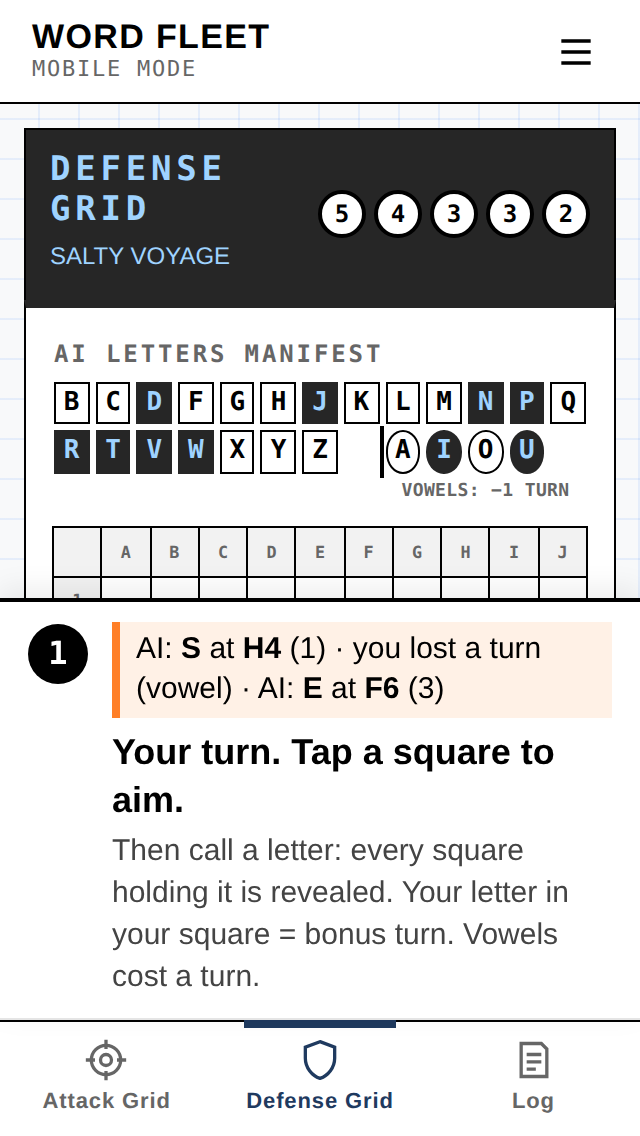
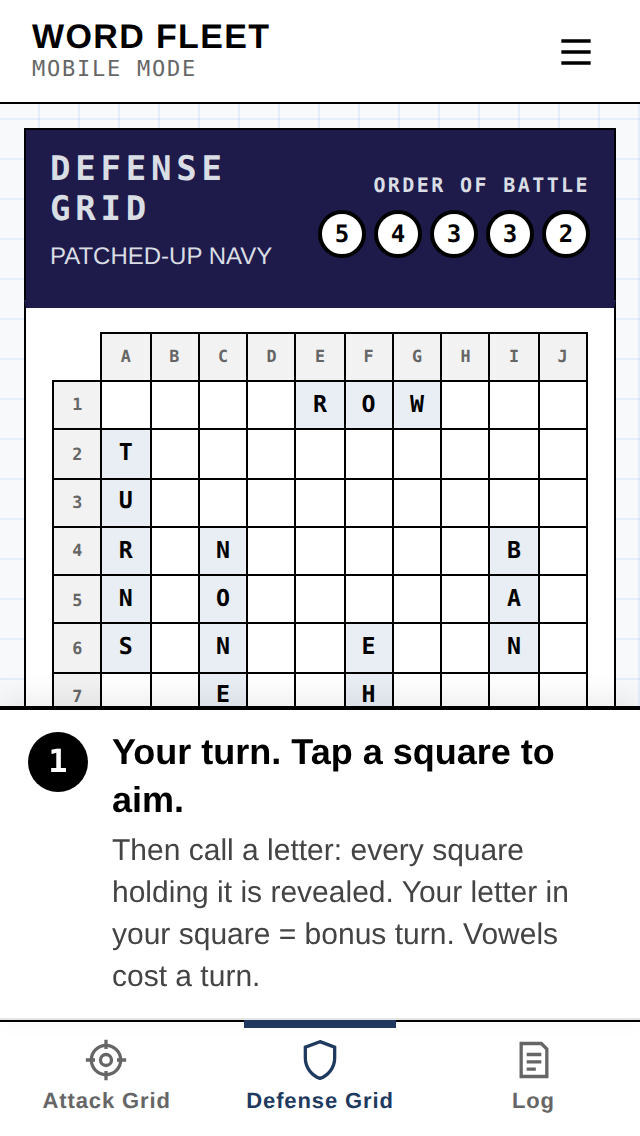
Saved fleets with their scores; Order of Battle label; no Hunting the Enemy
Saved Fleets (menu, and Use a Saved Fleet on 001): every finished battle saves its
fleet and score, Save This Fleet saves it any time; each fleet shows best, battles,
wins and last score, with Use (new battle at 001 with that fleet) and Delete.
A renamed fleet is a new fleet.

The Attack Grid banner drops "Hunting the Enemy"; the ship circles on both grid
banners are labelled ORDER OF BATTLE. v150.

Claude-Session: https://claude.ai/code/session_013sUGAAEC45a1EJCrQWVj9Q

Changed region(s): [[0.0, 0.0924, 1.0, 0.7086]]

diff --git a/mobile/app.js b/mobile/app.js
@@ -314,6 +314,67 @@
   function record() {
     try { return JSON.parse(localStorage.getItem(RECORD)) || { won: 0, lost: 0 }; } catch (e) { return { won: 0, lost: 0 }; }
   }
+  // Saved fleets: name, colors, word-ships and their locations, kept on this device for later battles,
+  // with every finished battle's score. A fleet is matched by its id (S.me.id), which carries over
+  // from battle to battle; editing its words, colors or locations updates the saved fleet, while a
+  // new name makes it a new fleet.
+  var FLEETS = 'wordfleet-fleets';
+  function loadFleets() {
+    try { return JSON.parse(localStorage.getItem(FLEETS)) || []; } catch (e) { return []; }
+  }
+  function storeFleets(list) {
+    try { localStorage.setItem(FLEETS, JSON.stringify(list)); } catch (e) { /* private mode */ }
+  }
+  function newFleetId() { return Date.now().toString(36) + Math.random().toString(36).slice(2, 6); }
+  // Saves (or updates) the current fleet; result {score, won, level} adds a finished battle's score.
+  function recordFleet(result) {
+    if (!S || !S.me || !S.me.words || S.me.words.length !== SPECS.length) return null;
+    var list = loadFleets();
+    // A renamed fleet is a new fleet: keep the old one (and its scores) as it was.
+    var mine = list.filter(function (x) { return x.id === S.me.id; })[0];
+    if (!S.me.id || (mine && mine.name !== S.me.name)) S.me.id = newFleetId();
+    var f = list.filter(function (x) { return x.id === S.me.id; })[0];
+    if (!f) { f = { id: S.me.id, scores: [] }; list.unshift(f); }
+    f.name = S.me.name; f.colors = S.colors; f.lang = S.lang; f.words = S.me.words.slice();
+    f.ships = S.me.ships && S.me.ships.every(function (sh) { return sh.r != null; })
+      ? S.me.ships.map(function (sh) { return { word: sh.word, r: sh.r, c: sh.c, dir: sh.dir }; }) : null;
+    f.saved = Date.now();
+    if (result) { f.scores.unshift({ score: result.score, won: result.won, level: result.level, at: Date.now() }); f.scores = f.scores.slice(0, 50); }
+    storeFleets(list);
+    return f;
+  }
+  function fleetStats(f) {
+    var sc = f.scores || [];
+    if (!sc.length) return 'No battles yet';
+    var best = Math.max.apply(null, sc.map(function (x) { return x.score || 0; }));
+    var won = sc.filter(function (x) { return x.won; }).length;
+    return 'Best ' + best + ' \u00b7 ' + sc.length + (sc.length === 1 ? ' battle' : ' battles') + ' \u00b7 ' + won + ' won \u00b7 last ' + (sc[0].score || 0);
+  }
+  // MOBILE-FLEETS: the saved fleets, each with its scores; USE starts a new battle (at 001) with it.
+  function openFleets() {
+    var list = loadFleets();
+    openSheet('<h2>Saved Fleets</h2>' + (list.length ? '<div class="fleet-list">' + list.map(function (f) {
+      return '<div class="fleet-row"><i class="fleet-flag">' + flagSvg(schemeOf(f.colors), fleetInitials(f.name) || 'WF') + '</i>' +
+        '<div class="fleet-info"><b>' + esc(f.name) + '</b><span>' + f.words.join(' \u00b7 ') + '</span><span class="fleet-stats">' + fleetStats(f) + '</span></div>' +
+        '<div class="fleet-acts"><button class="btn btn--sm btn--primary" type="button" data-act="useFleet" data-id="' + f.id + '">Use</button>' +
+        '<button class="btn btn--sm btn--ghost" type="button" data-act="delFleet" data-id="' + f.id + '">Delete</button></div></div>';
+    }).join('') + '</div>' : '<p class="hint">No saved fleets yet. Every battle you finish saves its fleet and score here, or use SAVE THIS FLEET in the \u2630 menu.</p>') +
+      '<button class="btn btn--wide" type="button" data-act="close">Close</button>', true, 'MOBILE-FLEETS');
+  }
+  function useFleet(id) {
+    var f = loadFleets().filter(function (x) { return x.id === id; })[0];
+    if (!f) return false;
+    if (S && S.phase !== 'over' && S.phase !== 'setup' && !confirm('Abandon the current battle?')) return false;
+    if (ui.aiTimer) { clearTimeout(ui.aiTimer); ui.aiTimer = null; }
+    newGame();
+    S.me = { id: f.id, name: f.name, words: f.words.slice(), ships: f.ships ? f.ships.map(function (sh) { return { word: sh.word, r: sh.r, c: sh.c, dir: sh.dir }; }) : null };
+    S.colors = f.colors || S.colors;
+    if (f.lang) S.lang = f.lang;
+    save();
+    show('setup');
+    return true;
+  }
+
   function bumpRecord(won) {
     var r = record();
     if (won) r.won++; else r.lost++;
@@ -332,9 +393,9 @@
       offensiveOk: !!(S && S.offensiveOk),
       mode: (S && S.mode) || 'auto',
       colors: (prev && prev.colors) || pick(COLOR_SCHEMES).id,   // random for the first game; the captain can change it on 001
-      me: prev ? { name: prev.me.name, words: prev.me.words.slice(),
+      me: prev ? { id: prev.me.id, name: prev.me.name, words: prev.me.words.slice(),
                    ships: prev.me.ships ? prev.me.ships.map(function (sh) { return { word: sh.word, r: sh.r, c: sh.c, dir: sh.dir }; }) : null }
-               : { name: randomFleetName(), words: randomWords(), ships: null },
+               : { id: newFleetId(), name: randomFleetName(), words: randomWords(), ships: null },
       foe: null,
       myShots: {}, myTallies: {},
       foeShots: {}, foeTallies: {},
@@ -392,6 +453,7 @@
   function render() {
     if (current === 'home') renderHome();
     else if (current === 'setup' || current === 'opponent' || current === 'words') renderSetup();
+    if (current === 'setup') $('btnSavedFleets').hidden = !loadFleets().length;
     else if (current === 'deploy') renderDeploy();
     else if (current === 'battle') renderBattle();
     applyFleetColors();
@@ -804,7 +866,9 @@
     var over = S.phase === 'over', fb = foeBoard();
     $('tabAttack').setAttribute('data-screen', over ? '010-MOBILE-GAME-OVER' : '005-MOBILE-ATTACK');
     $('score').textContent = (S.score || 0) + ' points';
-    $('attackSub').textContent = over ? (S.winner === 'me' ? 'Enemy Fleet Sunk' : 'Enemy Fleet Revealed') : 'Hunting the Enemy';
+    // No subtitle during battle; once it is over it says how it ended.
+    $('attackSub').textContent = over ? (S.winner === 'me' ? 'Enemy Fleet Sunk' : 'Enemy Fleet Revealed') : '';
+    $('attackSub').hidden = !over;
     $('uncalled').hidden = over;
     paint($('gridAttack'), function (r, c) {
       var k = key(r, c);
@@ -1303,6 +1367,7 @@
       log('me', S.winPts.total + ' points (' + S.winPts.why.join(', ') + '). Final score ' + S.score + '.');
     }
     bumpRecord(winner === 'me');
+    recordFleet({ score: S.score || 0, won: winner === 'me', level: S.level });
     sfx(winner === 'me' ? 'win' : 'lose', 0.2);
     ui.sel = null; ui.demand = false; ui.tab = 'Attack';
     save();
@@ -1327,6 +1392,8 @@
     var live = S && S.phase !== 'over' && S.phase !== 'setup';
     openSheet('<h2>Word Fleet</h2><div class="menu-list">' +
       '<button class="btn btn--primary btn--wide" type="button" data-act="newBattle">New Battle</button>' +
+      '<button class="btn btn--wide" type="button" data-act="fleets">Saved Fleets</button>' +
+      (S && S.me && S.me.words && S.me.words.length === SPECS.length ? '<button class="btn btn--wide" type="button" data-act="saveFleet">Save This Fleet</button>' : '') +
       '<button class="btn btn--wide" type="button" data-act="rules">Rules of Engagement</button>' +
       (ui.installEvt ? '<button class="btn btn--wide" type="button" data-act="install">Install Word Fleet</button>' : '') +
       '<a class="btn btn--wide" href="https://thegamebureau.com/wordfleet/">Home Port</a>' +
@@ -1454,6 +1521,7 @@
     show(step);
   }
   on($('btnToOpponent'), 'click', function () { setupStep('opponent'); });
+  on($('btnSavedFleets'), 'click', openFleets);
   on($('btnToWords'), 'click', function () { setupStep('words'); });
   on($('btnBackToSetup'), 'click', function () { setupStep('setup'); });
   on($('btnBackToOpponent'), 'click', function () { setupStep('opponent'); });
@@ -1594,6 +1662,13 @@
     else if (act === 'menuDemand') { closeSheet(); ui.demand = true; switchTab('Attack'); }
     else if (act === 'home') { closeSheet(); show('home'); }
     else if (act === 'newBattle') { if (newBattle()) closeSheet(); }
+    else if (act === 'fleets') openFleets();
+    else if (act === 'saveFleet') { var sf = recordFleet(null); closeSheet(); if (sf) toast(sf.name + ' saved to Saved Fleets.'); }
+    else if (act === 'useFleet') { if (useFleet(b.getAttribute('data-id'))) closeSheet(); }
+    else if (act === 'delFleet') {
+      var id = b.getAttribute('data-id'), del = loadFleets().filter(function (x) { return x.id === id; })[0];
+      if (del && confirm('Delete ' + del.name + ' and its scores?')) { storeFleets(loadFleets().filter(function (x) { return x.id !== id; })); openFleets(); }
+    }
     else if (act === 'abandon') {
       if (!confirm('Abandon this battle? It counts as a loss.')) return;
       if (S.phase === 'battle') bumpRecord(false);

diff --git a/mobile/index.html b/mobile/index.html
@@ -18,7 +18,7 @@
   <link rel="preconnect" href="https://fonts.gstatic.com" crossorigin>
   <link href="https://fonts.googleapis.com/css2?family=Courier+Prime:wght@400;700&family=Inter:wght@400;500;600;700&display=swap" rel="stylesheet">
   <!-- Bump ?v= on every release (and CACHE in sw.js) so a new page never runs old code. -->
-  <link rel="stylesheet" href="app.css?v=149">
+  <link rel="stylesheet" href="app.css?v=150">
 </head>
 <body>
 
@@ -74,6 +74,7 @@
       <p class="hint hint--label swatch-name" id="colorSchemeName"></p>
 
       <button class="btn btn--wide btn--next btn--progress" style="--progress: 25%" id="btnToOpponent" type="button" aria-label="Next: Choose Your AI Captain (step 1 of 4 done)">Next: AI Captain</button>
+      <button class="btn btn--wide" id="btnSavedFleets" type="button" hidden>Use a Saved Fleet</button>
       <a class="btn btn--ghost btn--wide" id="lnkHome" href="../">&larr; Word Fleet Home</a>
     </div>
   </section>
@@ -146,11 +147,12 @@
   <section class="screen screen--tabs" id="scrBattle" data-screen="BATTLE">
 
     <!-- ============ 005-MOBILE-ATTACK (screen name: "005-MOBILE-ATTACK") ============ -->
-    <!-- Tapping a square opens 006-MOBILE-CALL-LETTER; "Demand Surrender" turns the panel below into 009-MOBILE-SURRENDER. -->
+    <!-- Tapping a square lights up the Letters Manifest (006); "Demand Surrender" (☰ menu) opens 009-MOBILE-SURRENDER.
+         "Order of Battle": one circle per word-ship, by length; it fills in when that word-ship is sunk. -->
     <div class="tab" id="tabAttack" data-screen="005-MOBILE-ATTACK">
       <div class="gridbanner is-attack">
-        <div><b>ATTACK GRID</b><span id="attackSub">Hunting the Enemy</span><span class="banner-score" id="score">0 points</span></div>
-        <span class="bubbles" id="bubbles"></span>
+        <div><b>ATTACK GRID</b><span id="attackSub" hidden></span><span class="banner-score" id="score">0 points</span></div>
+        <div class="roll"><div class="roll-label">Order of Battle</div><span class="bubbles" id="bubbles"></span></div>
       </div>
       <div class="card card--flush card--attack">
         <!-- Letters still to call; they disappear as you call them (called ones show on the grid) -->
@@ -165,7 +167,7 @@
            "AI letters left" above the grid matches the Attack Grid's "Letters left". -->
       <div class="gridbanner is-defense">
         <div><b>DEFENSE GRID</b><span id="defFleetName">Your fleet</span></div>
-        <span class="bubbles" id="defBubbles"></span>
+        <div class="roll"><div class="roll-label">Order of Battle</div><span class="bubbles" id="defBubbles"></span></div>
       </div>
       <div class="card card--flush card--defense">
         <!-- Letters the AI Captain hasn't called yet; yours (still at risk) outlined in your colors -->
@@ -226,7 +228,7 @@
 <div class="coach coach--notice" id="notice" role="alert" aria-live="assertive" hidden></div>
 <div class="bonus-banner" id="bonusBanner" role="status" aria-live="assertive" hidden></div>
 
-<script src="audio.js?v=149"></script>
-<script src="app.js?v=149"></script>
+<script src="audio.js?v=150"></script>
+<script src="app.js?v=150"></script>
 </body>
 </html>

diff --git a/mobile/app.css b/mobile/app.css
@@ -753,3 +753,18 @@ button.uc:active { background: var(--mine, var(--navy)); color: var(--mine-ink, 
 .gridbanner .banner-score { display: block; margin-top: 4px; font-family: var(--mono); font-size: 14px; font-weight: 700; letter-spacing: 0.08em; text-transform: uppercase; }
 .coach-pts { font-weight: 700; color: var(--green-dark); }
 .coach.is-bonus .coach-pts, .coach.is-lost .coach-pts { color: var(--ink); }
+/* MOBILE-FLEETS: saved fleets with their scores */
+.fleet-list { display: grid; gap: 10px; margin-bottom: 14px; }
+.fleet-row { display: flex; align-items: center; gap: 10px; border: 1px solid var(--ink); padding: 8px 10px; }
+.fleet-flag { flex-shrink: 0; width: 34px; display: block; }
+.fleet-flag svg { width: 100%; height: auto; display: block; }
+.fleet-info { flex: 1; min-width: 0; display: grid; gap: 2px; }
+.fleet-info b { font-family: var(--mono); letter-spacing: 0.06em; overflow: hidden; text-overflow: ellipsis; white-space: nowrap; }
+.fleet-info span { font-family: var(--mono); font-size: 12px; color: var(--muted); overflow: hidden; text-overflow: ellipsis; white-space: nowrap; }
+.fleet-info .fleet-stats { color: var(--ink); font-weight: 700; }
+.fleet-acts { display: grid; gap: 6px; flex-shrink: 0; }
+.fleet-acts .btn { min-height: 34px; padding: 4px 10px; font-size: 13px; }
+/* "Order of Battle": the ship circles in a grid banner, with their label */
+.roll { display: grid; justify-items: end; gap: 4px; flex-shrink: 0; }
+.roll-label { font-family: var(--mono); font-size: 10px; font-weight: 700; letter-spacing: 0.12em; text-transform: uppercase; white-space: nowrap; }
+.fleet-info b, .fleet-info span { white-space: normal; overflow: visible; }

diff --git a/mobile/sw.js b/mobile/sw.js
@@ -1,11 +1,11 @@
 /* Word Fleet service worker: the whole game works offline once loaded. */
-var CACHE = 'wordfleet-v149';
+var CACHE = 'wordfleet-v150';
 var SHELL = [
   './',
   'index.html',
-  'app.css?v=149',
-  'app.js?v=149',
-  'audio.js?v=149',
+  'app.css?v=150',
+  'app.js?v=150',
+  'audio.js?v=150',
   'manifest.webmanifest',
   'icons/icon-180.png',
   'icons/icon-192.png',

diff --git a/mobile/screens/README.md b/mobile/screens/README.md
@@ -13,11 +13,12 @@ referred to by name when asking for changes. Each has a reference snapshot in th
 | **003-MOBILE-WORD-SHIPS** | `<section id="scrWords" data-screen="003-MOBILE-WORD-SHIPS">`, `SCREENS.words` | `003-mobile-word-ships.png` | Header line: your flag and fleet name. Card title "Build Your Word-Ships". "Allow possibly offensive words" switch ("Applies to both fleets. Switching it draws five new word-ships."): flipping it either way redraws all five words to follow the new setting. With it on, possibly offensive words come up slightly more often (a 10% nudge per word, `OFFENSIVE_NUDGE`); never-suggested words still never do. Suggested and redrawn words always come from the chosen AI Captain's word level. Section "Check your five word-ships" with ↻ REBUILD ALL; "Tap any word-ship to type your own." Possibly offensive words show in red. Each word has a ↻ redraw; a typed word is checked against the dictionary when its box loses focus, and all are checked on "NEXT: DEPLOY" (75%). Back. |
 | *(notices, 001-004)* | `#notice` (`showNotice`, `toast`, `setupNotice` in app.js) | `notice-003.png` | Prepare-section notices use the battle coach bar's look: docked at the bottom, a red **!** marker, the first sentence bold and the rest smaller. 003 shows word-ship problems there until fixed; 004 flashes "won't fit" for a moment. |
 | **004-MOBILE-DEPLOY** | `<section id="scrDeploy" data-screen="004-MOBILE-DEPLOY">`, `SCREENS.deploy` | `004-mobile-deploy.png` | Step 4 of 4 of Prepare for Battle, same look as 001-003; header line: your flag and fleet name. Card title "Deploy Your Fleet", then the Defense Grid dressed like the in-game one ("DEFENSE GRID PREVIEW" banner with your fleet name under it, in your fleet's colors from 001: color 1 behind, color 2 for the text, color 1 along the top edge). Opens with the five word-ships already deployed at random, in green; they never leave the grid. Section "Keep this layout or rearrange it" with ⇄ SHUFFLE (new random layout); drag a ship to move it, double-tap its first letter to turn it. "LET THE BATTLE BEGIN!" (progress bar full), Back. |
-| **005-MOBILE-ATTACK** | `<div id="tabAttack" data-screen="005-MOBILE-ATTACK">` in `#scrBattle`; coach bar `#coach` | `005-mobile-attack.png`, `005-mobile-bonus-turn.png` | Battle, Attack Grid tab: the Attack Grid under a banner in your fleet colors ("ATTACK GRID / Hunting the Enemy"), with the **Letters Manifest** strip under the grid: every letter not yet called, each dropping out once called: A to Z with the vowels as round chips, and a note at the right of the title: "VOWELS: −1 TURN". The AI Letters Manifest on the Defense Grid uses the same layout. On your turn the grid is outlined in your fleet color until you aim. Tap a square to aim (the outline moves to the manifest, which lights up and its letters become buttons), then tap a letter to call it; tap another square to re-aim or the same square to cancel. There is no letter-picker popup. Your score shows in the banner under "Hunting the Enemy" ("230 POINTS"), and each call that earns points adds a coach line like "+170 points +20 letters · +50 bonus · +100 sunk" (also in the Log). Points (`POINTS` in app.js): 10 per letter revealed, 5 for a ? square, 50 for a bonus turn, 100 per word-ship sunk, 500 for victory plus 10 per letter never called. Called letters show on the grid. Open water (you aimed there and nothing is there) is pale sea blue with "≈" waves, on both grids. A square known to hold a letter (you aimed there and called a different one) is solid violet (the complement of Wordle green and yellow) with a white "?" and the letters ruled out there in small white type along the bottom (the last three); it can be aimed at again. Your Defense Grid marks the AI Captain's squares the same way: a violet outline plus the letters it has ruled out in violet. The **coach bar** above the tabs always says what to do next, with a step marker and at most two buttons: ① "Your turn. Tap a square to aim." (with everything since your last turn folded into one line above it, e.g. "AI: E at A9 (0) · you lost a turn (vowel)") → ② "Call a letter for D4" → ③ '"T tally 2." Revealed at D6, C6' and "AI Captain's turn next…" (no End Turn button: after about 2.5 seconds play moves on by itself); ★ gold for a bonus turn; "AI Captain is aiming…" on its turn. The grid tells the story: new letters flip in one by one, the aimed square keeps a marker (gold ✓ when the letter was there), the called letter drops out of the Letters Manifest. Bonus turn also plays the bell-and-fanfare and flashes "★ BONUS TURN!". Longer hints for a captain's first two calls, or with Hints on in the ☰ menu. There is no Solve a Word button: revealed letters are Wordle green, and when every letter of a word-ship is revealed its squares turn dark green with white letters, its ship circle turns dark green, and the coach bar says "LABEL is sunk!". Demand Surrender (009, ☰ menu only) is the only popup. The AI's turn no longer jumps to the Defense tab; its tab gets a red dot. |
+| **005-MOBILE-ATTACK** | `<div id="tabAttack" data-screen="005-MOBILE-ATTACK">` in `#scrBattle`; coach bar `#coach` | `005-mobile-attack.png`, `005-mobile-bonus-turn.png` | Battle, Attack Grid tab: the Attack Grid under a banner in your fleet colors ("ATTACK GRID", your score, and the ship circles labelled "ORDER OF BATTLE": one per word-ship by length, filled in when sunk), with the **Letters Manifest** strip under the grid: every letter not yet called, each dropping out once called: A to Z with the vowels as round chips, and a note at the right of the title: "VOWELS: −1 TURN". The AI Letters Manifest on the Defense Grid uses the same layout. On your turn the grid is outlined in your fleet color until you aim. Tap a square to aim (the outline moves to the manifest, which lights up and its letters become buttons), then tap a letter to call it; tap another square to re-aim or the same square to cancel. There is no letter-picker popup. Your score shows in the banner under "ATTACK GRID" ("230 POINTS"), and each call that earns points adds a coach line like "+170 points +20 letters · +50 bonus · +100 sunk" (also in the Log). Points (`POINTS` in app.js): 10 per letter revealed, 5 for a ? square, 50 for a bonus turn, 100 per word-ship sunk, 500 for victory plus 10 per letter never called. Called letters show on the grid. Open water (you aimed there and nothing is there) is pale sea blue with "≈" waves, on both grids. A square known to hold a letter (you aimed there and called a different one) is solid violet (the complement of Wordle green and yellow) with a white "?" and the letters ruled out there in small white type along the bottom (the last three); it can be aimed at again. Your Defense Grid marks the AI Captain's squares the same way: a violet outline plus the letters it has ruled out in violet. The **coach bar** above the tabs always says what to do next, with a step marker and at most two buttons: ① "Your turn. Tap a square to aim." (with everything since your last turn folded into one line above it, e.g. "AI: E at A9 (0) · you lost a turn (vowel)") → ② "Call a letter for D4" → ③ '"T tally 2." Revealed at D6, C6' and "AI Captain's turn next…" (no End Turn button: after about 2.5 seconds play moves on by itself); ★ gold for a bonus turn; "AI Captain is aiming…" on its turn. The grid tells the story: new letters flip in one by one, the aimed square keeps a marker (gold ✓ when the letter was there), the called letter drops out of the Letters Manifest. Bonus turn also plays the bell-and-fanfare and flashes "★ BONUS TURN!". Longer hints for a captain's first two calls, or with Hints on in the ☰ menu. There is no Solve a Word button: revealed letters are Wordle green, and when every letter of a word-ship is revealed its squares turn dark green with white letters, its ship circle turns dark green, and the coach bar says "LABEL is sunk!". Demand Surrender (009, ☰ menu only) is the only popup. The AI's turn no longer jumps to the Defense tab; its tab gets a red dot. |
 | **006-MOBILE-CALL-LETTER** | state of 005: `#uncalled.is-picking` | `006-mobile-call-letter.png` | No longer a popup. After you tap a hidden square, the Letters Manifest under the Attack Grid is outlined in your fleet color and its letters become buttons (the coach bar names the square). Coach bar step ②. |
 | **007-MOBILE-DEFENSE** | `<div id="tabDefense" data-screen="007-MOBILE-DEFENSE">` | `007-mobile-defense.png` | Battle, Defense Grid tab, built like the Attack Grid but in your fleet colors: banner "DEFENSE GRID" with your fleet name and your five ship circles (a circle turns red only when the AI Captain has revealed that whole word-ship), then your fleet with the AI Captain's picks. No incoming-fire box and no manifest on the tab: the AI Captain's moves are reported in the coach bar, and an "AI Letters Manifest" strip under the grid (matching the Attack Grid) shows the letters the AI Captain has not called yet, with the ones in your fleet filled in your colors. While the AI Captain takes its turn the Defense Grid is outlined in your fleet color, like the Attack Grid on your turn. |
 | **008-MOBILE-LOG** | `<div id="tabLog" data-screen="008-MOBILE-LOG">` | `008-mobile-log.png` | Battle, Log tab: small "CAPTAIN'S LOG" then your flag and fleet name, as on the Prepare screens. Below, newest on top, a plain list with an ⚓ bullet on every entry; your moves and the AI Captain's show that side's flag and fleet name, Fleet Command notices are just the text. |
 | **009-MOBILE-SURRENDER** | the Attack popup in Demand Surrender mode (open it from the ☰ menu), `#panelSheet[data-screen="009-MOBILE-SURRENDER"]` | `009-mobile-surrender.png` | Name every AI word-ship, its first square and heading; "I Demand Your Surrender!" asks once more before it counts. |
 | **010-MOBILE-GAME-OVER** | the battle screen once the battle is over: `#tabAttack[data-screen="010-MOBILE-GAME-OVER"]` | `010-mobile-game-over.png`, `010-mobile-game-over-lost.png` | No separate page and no New Battle button (it is in the ☰ menu). The tab bar stays, so you can still look at the Defense Grid and the Log. The Attack Grid shows the whole enemy fleet: banner "ENEMY FLEET SUNK" (or "ENEMY FLEET REVEALED" when you lose), word-ships you sank in green, letters you never revealed in gray, no letters manifest. The result is in the coach bar at the bottom: ★ gold for a win ("TOTAL VICTORY", "Every letter of the … is showing.", "You have won.") or ✕ red for a loss ("FLEET EXPOSED", "SURRENDER REFUSED", "FLEET SURRENDERED"), then letters called · vowels · revealed. |
-| **MOBILE-MENU** *(any screen)* | sheet, `data-screen="MOBILE-MENU"` | `mobile-menu.png` | The ☰ menu: NEW BATTLE (always opens 001; the last battle's AI Captain, dictionary, offensive-words switch, colors, fleet name, word-ships and their locations on 004 are the defaults, so change only what you want; a word edited on 003 keeps its old location; the very first game is random), Rules of Engagement, Home Port, By The Game Bureau, Demand Surrender (your turn only), Abandon Battle (counts as a loss, then opens 001 the same way), Sound Effects and Music switches. |
+| **MOBILE-MENU** *(any screen)* | sheet, `data-screen="MOBILE-MENU"` | `mobile-menu.png` | The ☰ menu: NEW BATTLE (always opens 001; the last battle's AI Captain, dictionary, offensive-words switch, colors, fleet name, word-ships and their locations on 004 are the defaults, so change only what you want; a word edited on 003 keeps its old location; the very first game is random), SAVED FLEETS, SAVE THIS FLEET, Rules of Engagement, Home Port, By The Game Bureau, Demand Surrender (your turn only), Abandon Battle (counts as a loss, then opens 001 the same way), Sound Effects and Music switches. |
+| **MOBILE-FLEETS** *(☰ menu, or USE A SAVED FLEET on 001)* | sheet, `data-screen="MOBILE-FLEETS"` | `mobile-fleets.png` | Saved fleets on this device (localStorage `wordfleet-fleets`): flag, name, word-ships, and scores ("Best 930 · 1 battle · 1 won · last 930"), with USE (new battle at 001 with that fleet's name, colors, words and locations) and DELETE. Every finished battle saves its fleet and score; SAVE THIS FLEET saves it any time. Renaming a fleet makes a new one. |
 | **MOBILE-RULES** *(any screen)* | sheet, `data-screen="MOBILE-RULES"` | `mobile-rules.png` | Rules of Engagement. |
